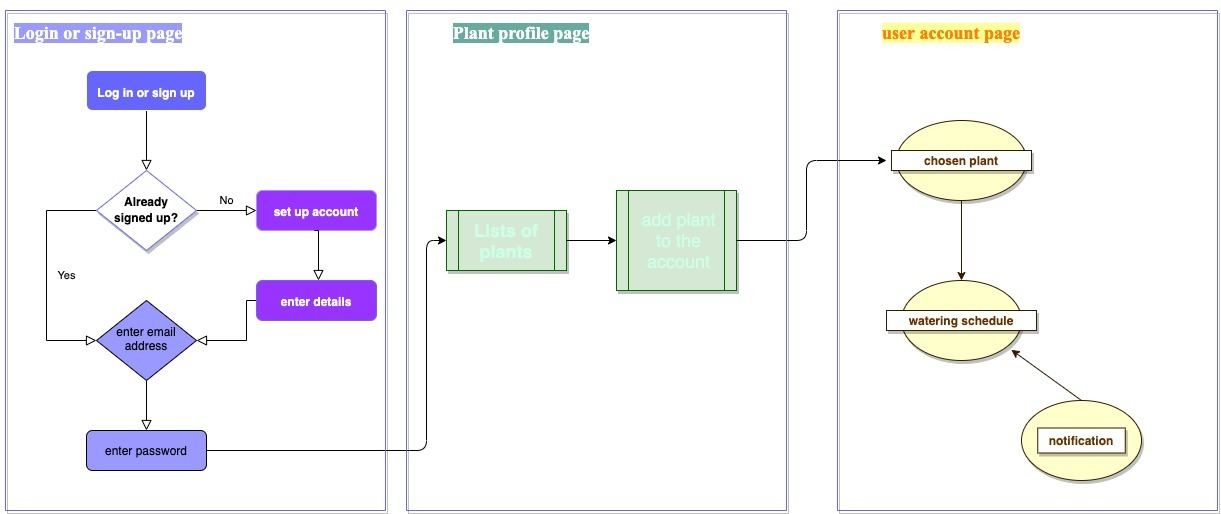
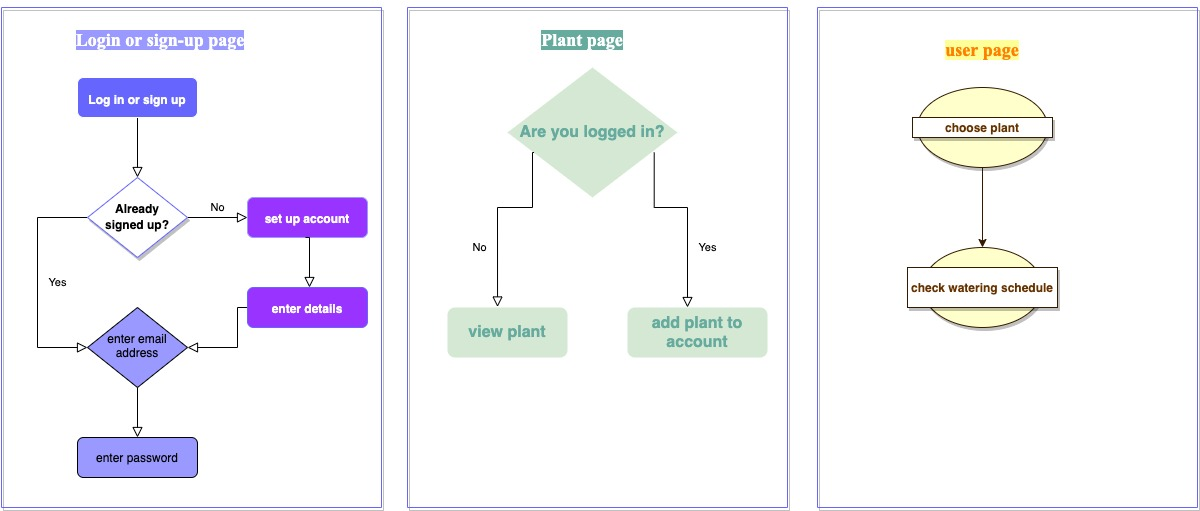
add plant to user

Changed region(s): [[0.0, 0.0, 1.0, 1.0], [0.8325, 0.7632, 0.9558, 0.9393], [0.8325, 0.7045, 0.8633, 0.7339]]

diff --git a/client/src/components/Plants.js b/client/src/components/Plants.js
@@ -13,6 +13,7 @@ import Link from '@material-ui/core/Link';
 import { Link as RouterLink } from "react-router-dom";
 import SearchIcon from '@material-ui/icons/Search';
 import InputBase from '@material-ui/core/InputBase';
+import Auth from '../helpers/Auth';
 
 
 function Copyright() {
@@ -61,10 +62,7 @@ const useStyles = makeStyles((theme) => ({
   },
 }));
 
-const cards = [1, 2, 3, 4, 5, 6, 7, 8, 9];
-
-
-export default function Album() {
+export default function Plants() {
   const classes = useStyles();
   const [plants, setPlants] = useState([]);
   const [search, setSearch] = useState('');
@@ -73,9 +71,6 @@ export default function Album() {
   // https://www.robinwieruch.de/react-hooks-fetch-data
   useEffect(() => {
     async function fetchPlants() {
-
-      
-//  const result = await fetch("/plants");
       const result = await fetch("http://localhost:5000/plants/?gt=1");
 
       const data = await result.json();
@@ -83,7 +78,7 @@ export default function Album() {
     }
     fetchPlants();
   }, []);
-  
+
 
   function filterSearch(plant) {
     // Either return true if you want the plant to be shown or otherwise false.
@@ -91,6 +86,21 @@ export default function Album() {
       return true;
     }
     return false;
+  }
+
+  async function addPlant(userId, plantId) {
+    let options = {
+      method: "POST",
+      headers: {
+        "Content-Type": "application/json",
+        "x-access-token": Auth.getToken()
+      },
+      body: JSON.stringify({
+        "user_id": userId,
+        "plant_id": plantId
+      })
+    };
+    await fetch(`http://localhost:5000/users/${userId}/favorites`, options);
   }
 
   return (
@@ -158,9 +168,12 @@ export default function Album() {
                       </Button>
                     </Link>
 
-                    <Button size="small" color="primary">
-                      Add
-                    </Button>
+                    {Auth.getUserId() ? (
+                      <Button size="small" color="primary" onClick={() => addPlant(Auth.getUserId(), plant.growtherapy.id)} >
+                        Add
+                      </Button>
+                    ) : <></>}
+
                   </CardActions>
                 </Card>
               </Grid>

diff --git a/client/src/App.js b/client/src/App.js
@@ -136,7 +136,7 @@ class App extends React.Component {
               <SecretView />
             </PrivateRoute> */}
 
-            <Route path="/plant-view" exact>
+            <Route path="/plant-view/:id" exact>
               <PlantView />
             </Route>
 

diff --git a/client/src/components/ContactUs.js b/client/src/components/ContactUs.js
@@ -59,9 +59,9 @@ const useStyles = makeStyles((theme) => ({
 const background = {
   position: 'absolute',
   top: 100,
-  marginRight: '50%',
-  marginLeft: '30%',
   zIndex: -1,
+  width: '100%',
+  height: '80%'
 };
 
 export default function ContactUs() {

diff --git a/client/src/helpers/Auth.js b/client/src/helpers/Auth.js
@@ -20,7 +20,7 @@ class Auth {
     }
     
     static getUserId() {
-        return ('userId' in localStorage) ? localStorage.userId : '';
+        return ('userId' in localStorage) ? Number(localStorage.userId) : null;
     }
 
 }

diff --git a/client/src/App.css b/client/src/App.css
@@ -1,5 +1,6 @@
 * {
   font-family: Stencil Std, fantasy !important;
   font-weight: bold !important;
+  font-size: medium;
 }
 
